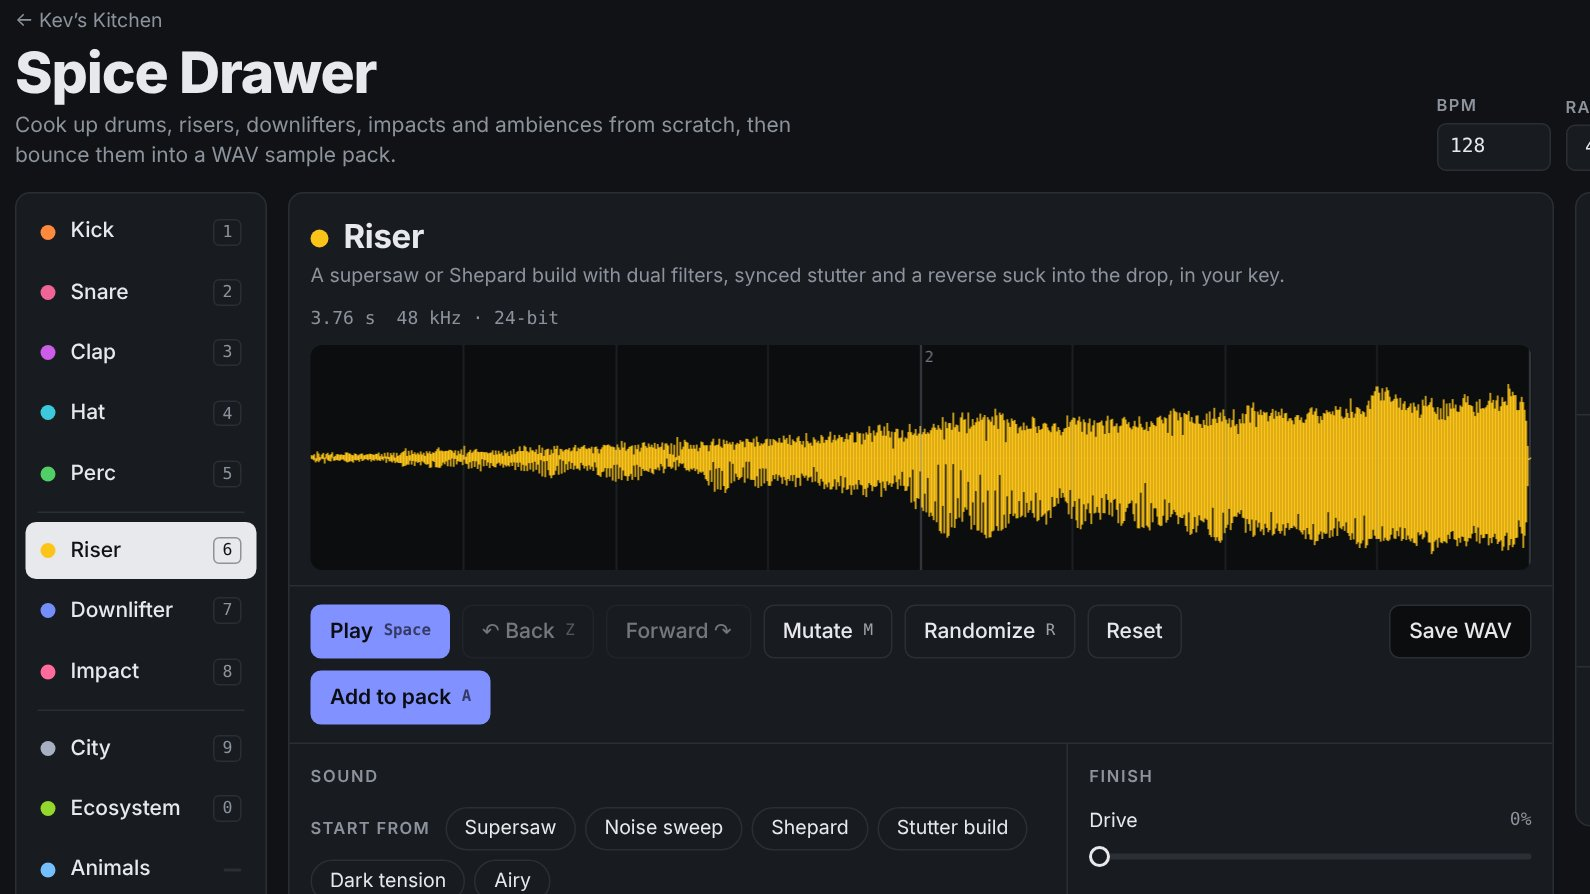
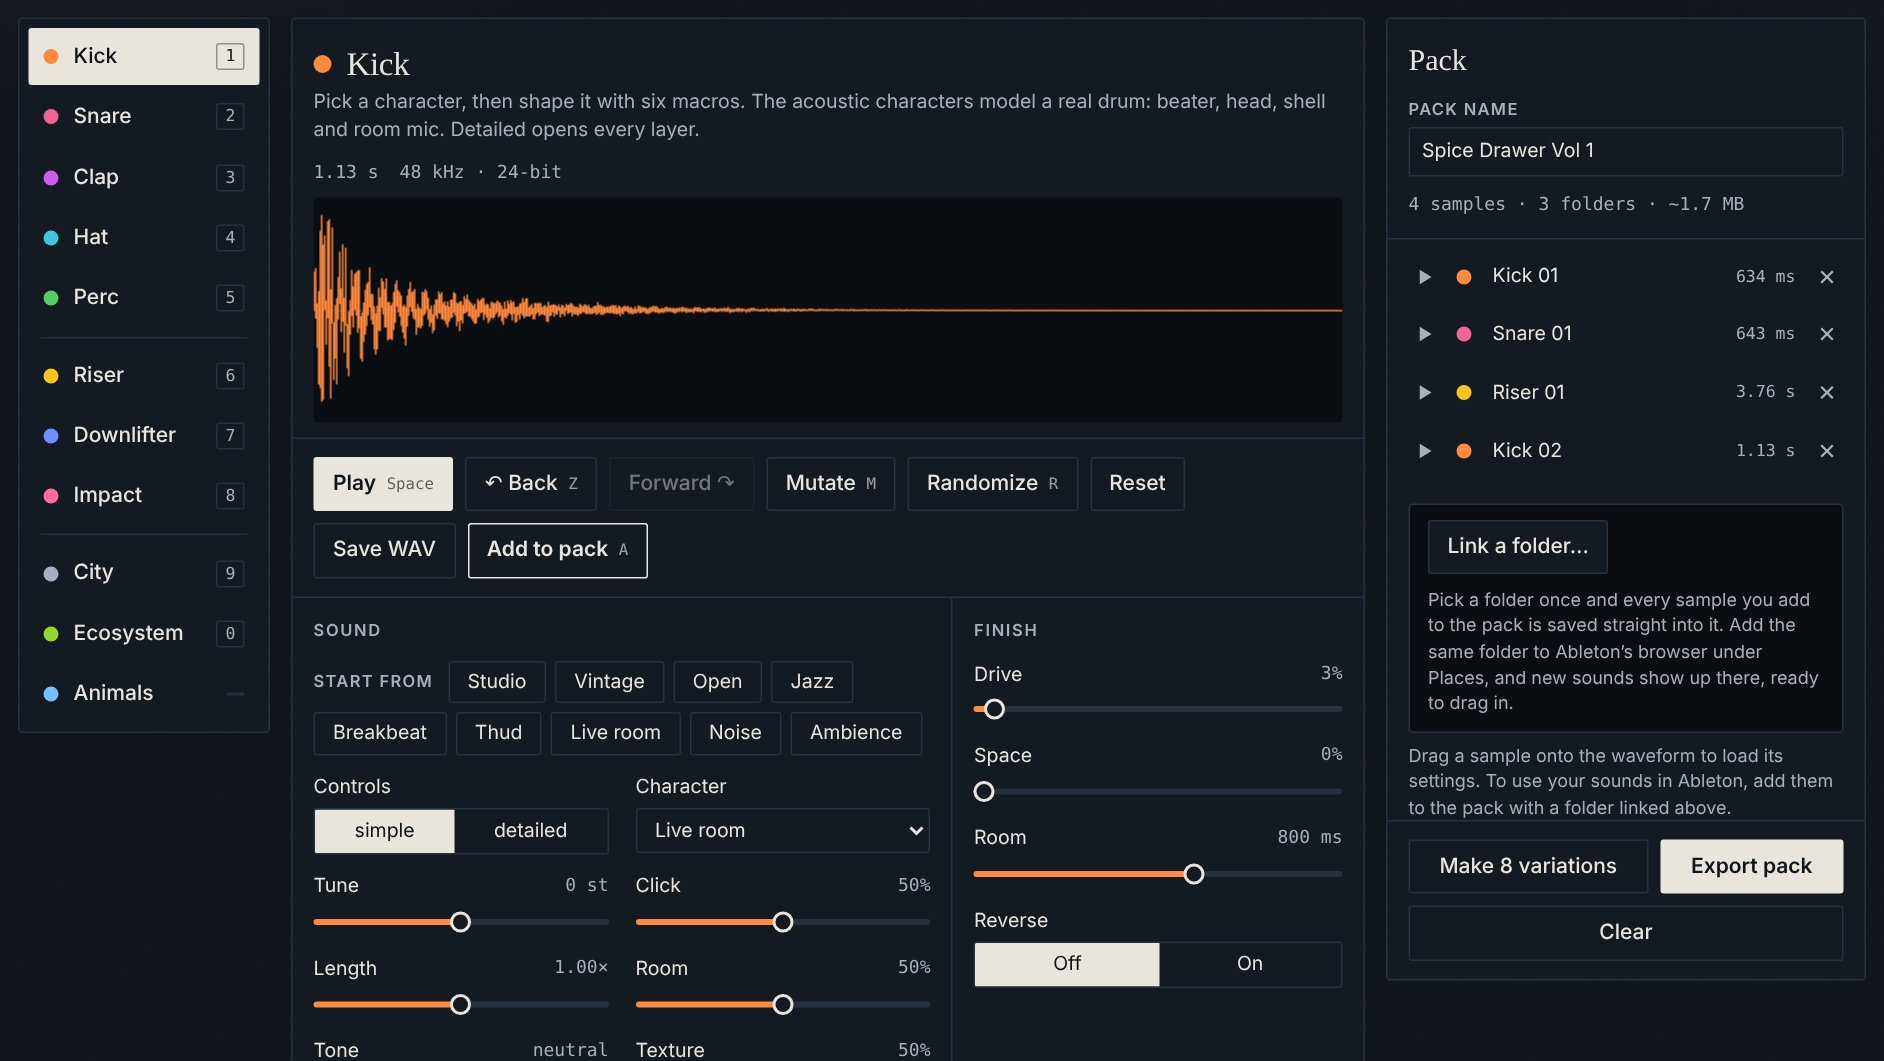
Kev's Kitchen: new Spice Drawer and Chord Pantry covers, drop 'Free' labels; Chord Pantry card tags and slash spelling
Claude-Session: https://claude.ai/code/session_01GRkqieyFPd7eWA36ZqAWTY

diff --git a/chord-pantry.html b/chord-pantry.html
@@ -72,6 +72,7 @@ header.top{padding:clamp(3rem,10vh,6rem) 0 clamp(1rem,3vh,1.75rem);display:flex;
 .card.playing{box-shadow:0 0 0 2px var(--c)}
 .card .nm{font-family:var(--display);font-size:clamp(17px,1.8vw,22px);font-weight:500;letter-spacing:-.01em;line-height:1.1;white-space:nowrap;overflow:hidden;text-overflow:ellipsis}
 .card .rn{font-family:var(--mono);font-size:11.5px;color:var(--muted);white-space:nowrap;overflow:hidden;text-overflow:ellipsis}
+.card .fn{font-size:10px;text-transform:uppercase;letter-spacing:.03em;font-weight:600;color:color-mix(in oklab,var(--c) 80%,var(--ink));white-space:nowrap;overflow:hidden;text-overflow:ellipsis}
 .card .acts{display:flex;gap:2px;margin-top:4px}
 .card .ic{border:0;background:transparent;width:26px;height:24px;display:grid;place-items:center;border-radius:2px;color:var(--muted);cursor:pointer;padding:0}
 .card .ic:hover{background:color-mix(in oklab,var(--c) 22%,transparent);color:var(--ink)}
@@ -530,12 +531,14 @@ function voice(p,st){
     }
     const bpc = inv && third!=null ? (root+third)%12 : root;
     const rel=(bpc-st.key+12)%12;
-    ch.slashLbl = inv && third!=null ? (SCALES[st.scale].iv.includes(rel)||![1,3,6,8,10].includes(rel) ? noteName(bpc,st.key,st.scale) : N_FLAT[bpc]) : null;
+    ch.slashLbl = inv && third!=null ? spellAs(bpc, LETTERS.indexOf(rootName(ch,st)[0])+2) : null;   // the third of the chord, spelled from its root (A7/C♯, not A7/D♭)
     if(ch.slash==='third' && third==null) ch.slash=null;
     let best2=null; for(let n=28;n<=50;n++) if(n%12===bpc){ if(best2==null || Math.abs(n-(prevB??40))<Math.abs(best2-(prevB??40))) best2=n; }
     ch.bass=best2; prevB=best2;
   });
 }
+const LETTERS='CDEFGAB', NAT=[0,2,4,5,7,9,11];
+function spellAs(pc,letterIdx){ const L=((letterIdx%7)+7)%7; let d=((pc-NAT[L])%12+12)%12; if(d>6) d-=12; return LETTERS[L]+(d===1?'♯':d===2?'𝄪':d===-1?'♭':d===-2?'𝄫':''); }
 const rootName=(ch,st)=>{ const pc=(st.key+ch.r)%12; return SCALES[st.scale].iv.includes(ch.r)||![1,3,6,8,10].includes(ch.r) ? noteName(pc,st.key,st.scale) : N_FLAT[pc]; };
 const chordName=(ch,st)=>{ const s=Q[ch.q].s; return rootName(ch,st)+s+(ch.slashLbl?(s.includes('/')?' / ':'/')+ch.slashLbl:''); };
 
@@ -872,8 +875,8 @@ function drawStrip(){
   S.prog.chords.forEach((ch,i)=>{
     const c=document.createElement('div'); c.className='card f-'+func(ch,st)+(ch.locked?' locked':''); c.style.gridColumn=`${ch.start+1} / span ${ch.len}`;
     c.tabIndex=0; c.setAttribute('role','button'); c.setAttribute('aria-label','Play '+chordName(ch,st));
-    c.innerHTML=`<span class="nm"></span><span class="rn"></span><span class="acts"><button type="button" class="ic rr" title="Reroll this chord">${ICON.reroll}</button><button type="button" class="ic fl" title="Flip major / minor (modal interchange)" aria-pressed="${!!ch.flip}" ${canFlip(ch)?'':'disabled'}>${ICON.flip}</button><button type="button" class="ic lk" title="Lock this chord" aria-pressed="${ch.locked}">${ch.locked?ICON.lock:ICON.unlock}</button></span>`;
-    c.querySelector('.nm').textContent=chordName(ch,st); c.querySelector('.rn').textContent=roman(ch)+' · '+(ch.flip&&func(ch,st)!=='tonic'&&func(ch,st)!=='pre'&&func(ch,st)!=='dom'?FN_TAG.flip:FN_TAG[func(ch,st)]);
+    c.innerHTML=`<span class="nm"></span><span class="rn"></span><span class="fn"></span><span class="acts"><button type="button" class="ic rr" title="Reroll this chord">${ICON.reroll}</button><button type="button" class="ic fl" title="Flip major / minor (modal interchange)" aria-pressed="${!!ch.flip}" ${canFlip(ch)?'':'disabled'}>${ICON.flip}</button><button type="button" class="ic lk" title="Lock this chord" aria-pressed="${ch.locked}">${ch.locked?ICON.lock:ICON.unlock}</button></span>`;
+    c.querySelector('.nm').textContent=chordName(ch,st); c.querySelector('.rn').textContent=roman(ch); c.querySelector('.fn').textContent=(ch.flip&&!['tonic','pre','dom'].includes(func(ch,st))?FN_TAG.flip:FN_TAG[func(ch,st)]);
     c.title=chordName(ch,st)+'  ·  '+ch.notes.map(n=>noteName(n,st.key,st.scale)).join(' ');
     c.onclick=e=>{ if(e.target.closest('.ic')) return; audition(ch); };
     c.onkeydown=e=>{ if(e.key==='Enter'||e.key===' '){ e.preventDefault(); e.stopPropagation(); audition(ch); } };

diff --git a/kitchen.html b/kitchen.html
@@ -52,7 +52,6 @@
         <li>Step sequencer, 8-variation batches, and a linked folder that saves every sample straight to your drive for Ableton (Chrome)</li>
       </ul>
       <div class="featured-foot">
-        <span class="product-price">Free</span>
         <a class="btn" href="spice-drawer.html">Open Spice Drawer</a>
       </div>
     </div>
@@ -74,7 +73,6 @@
         <li>MIDI with chords and bass, plus a pantry to keep and export your favourites</li>
       </ul>
       <div class="featured-foot">
-        <span class="product-price">Free</span>
         <a class="btn" href="chord-pantry.html">Open Chord Pantry</a>
       </div>
     </div>
@@ -94,7 +92,6 @@
         <li>250+ .wav files for wavetable synthesizers</li>
       </ul>
       <div class="featured-foot">
-        <span class="product-price">Free</span>
         <a class="btn" href="https://kstab.gumroad.com/l/kev_kit_mvmts" target="_blank" rel="noopener">Get it on Gumroad</a>
       </div>
     </div>
